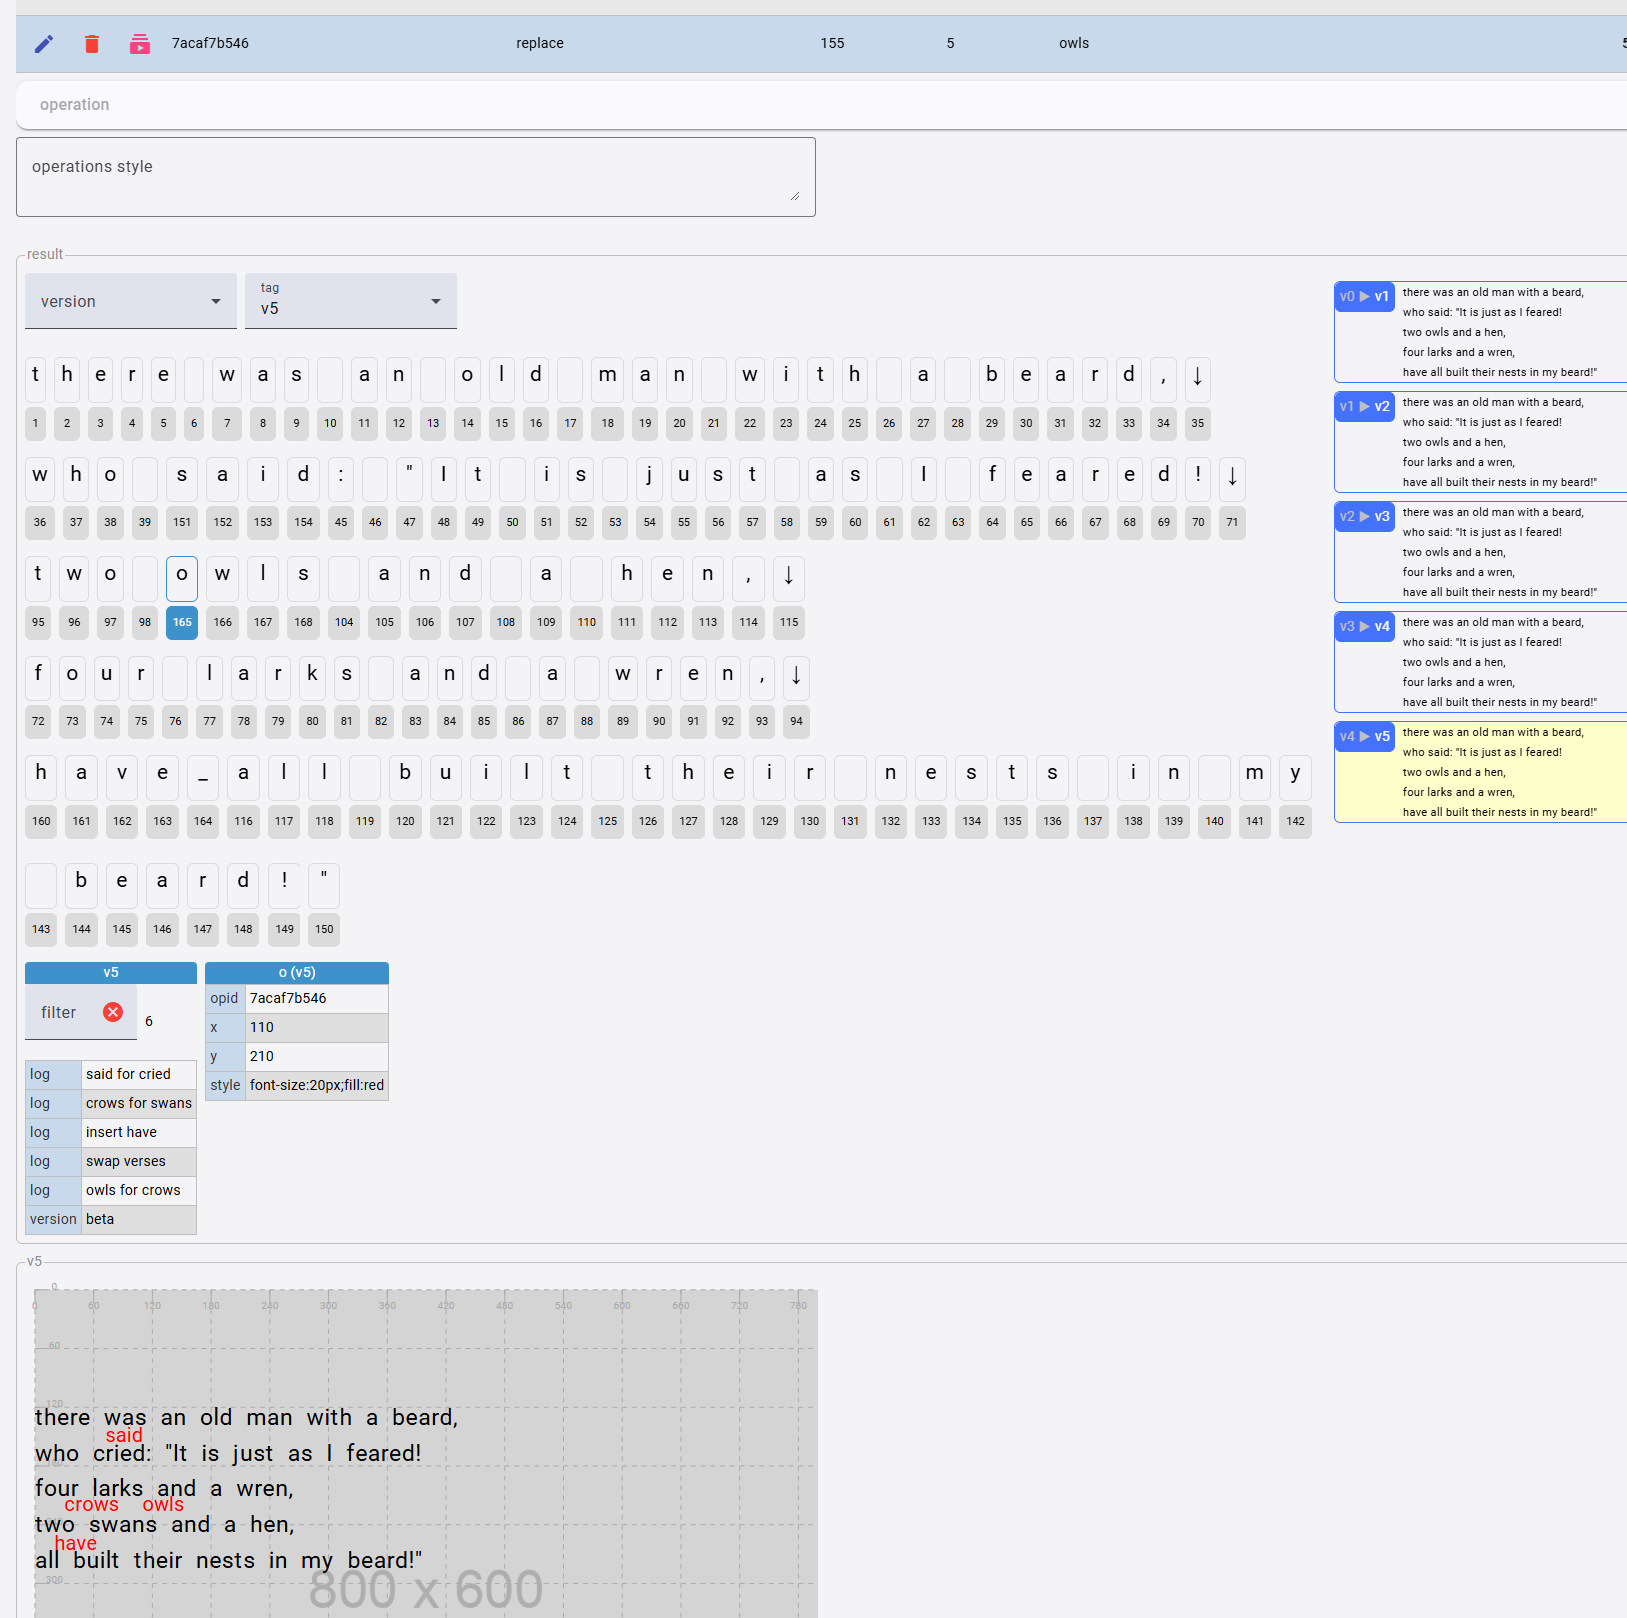
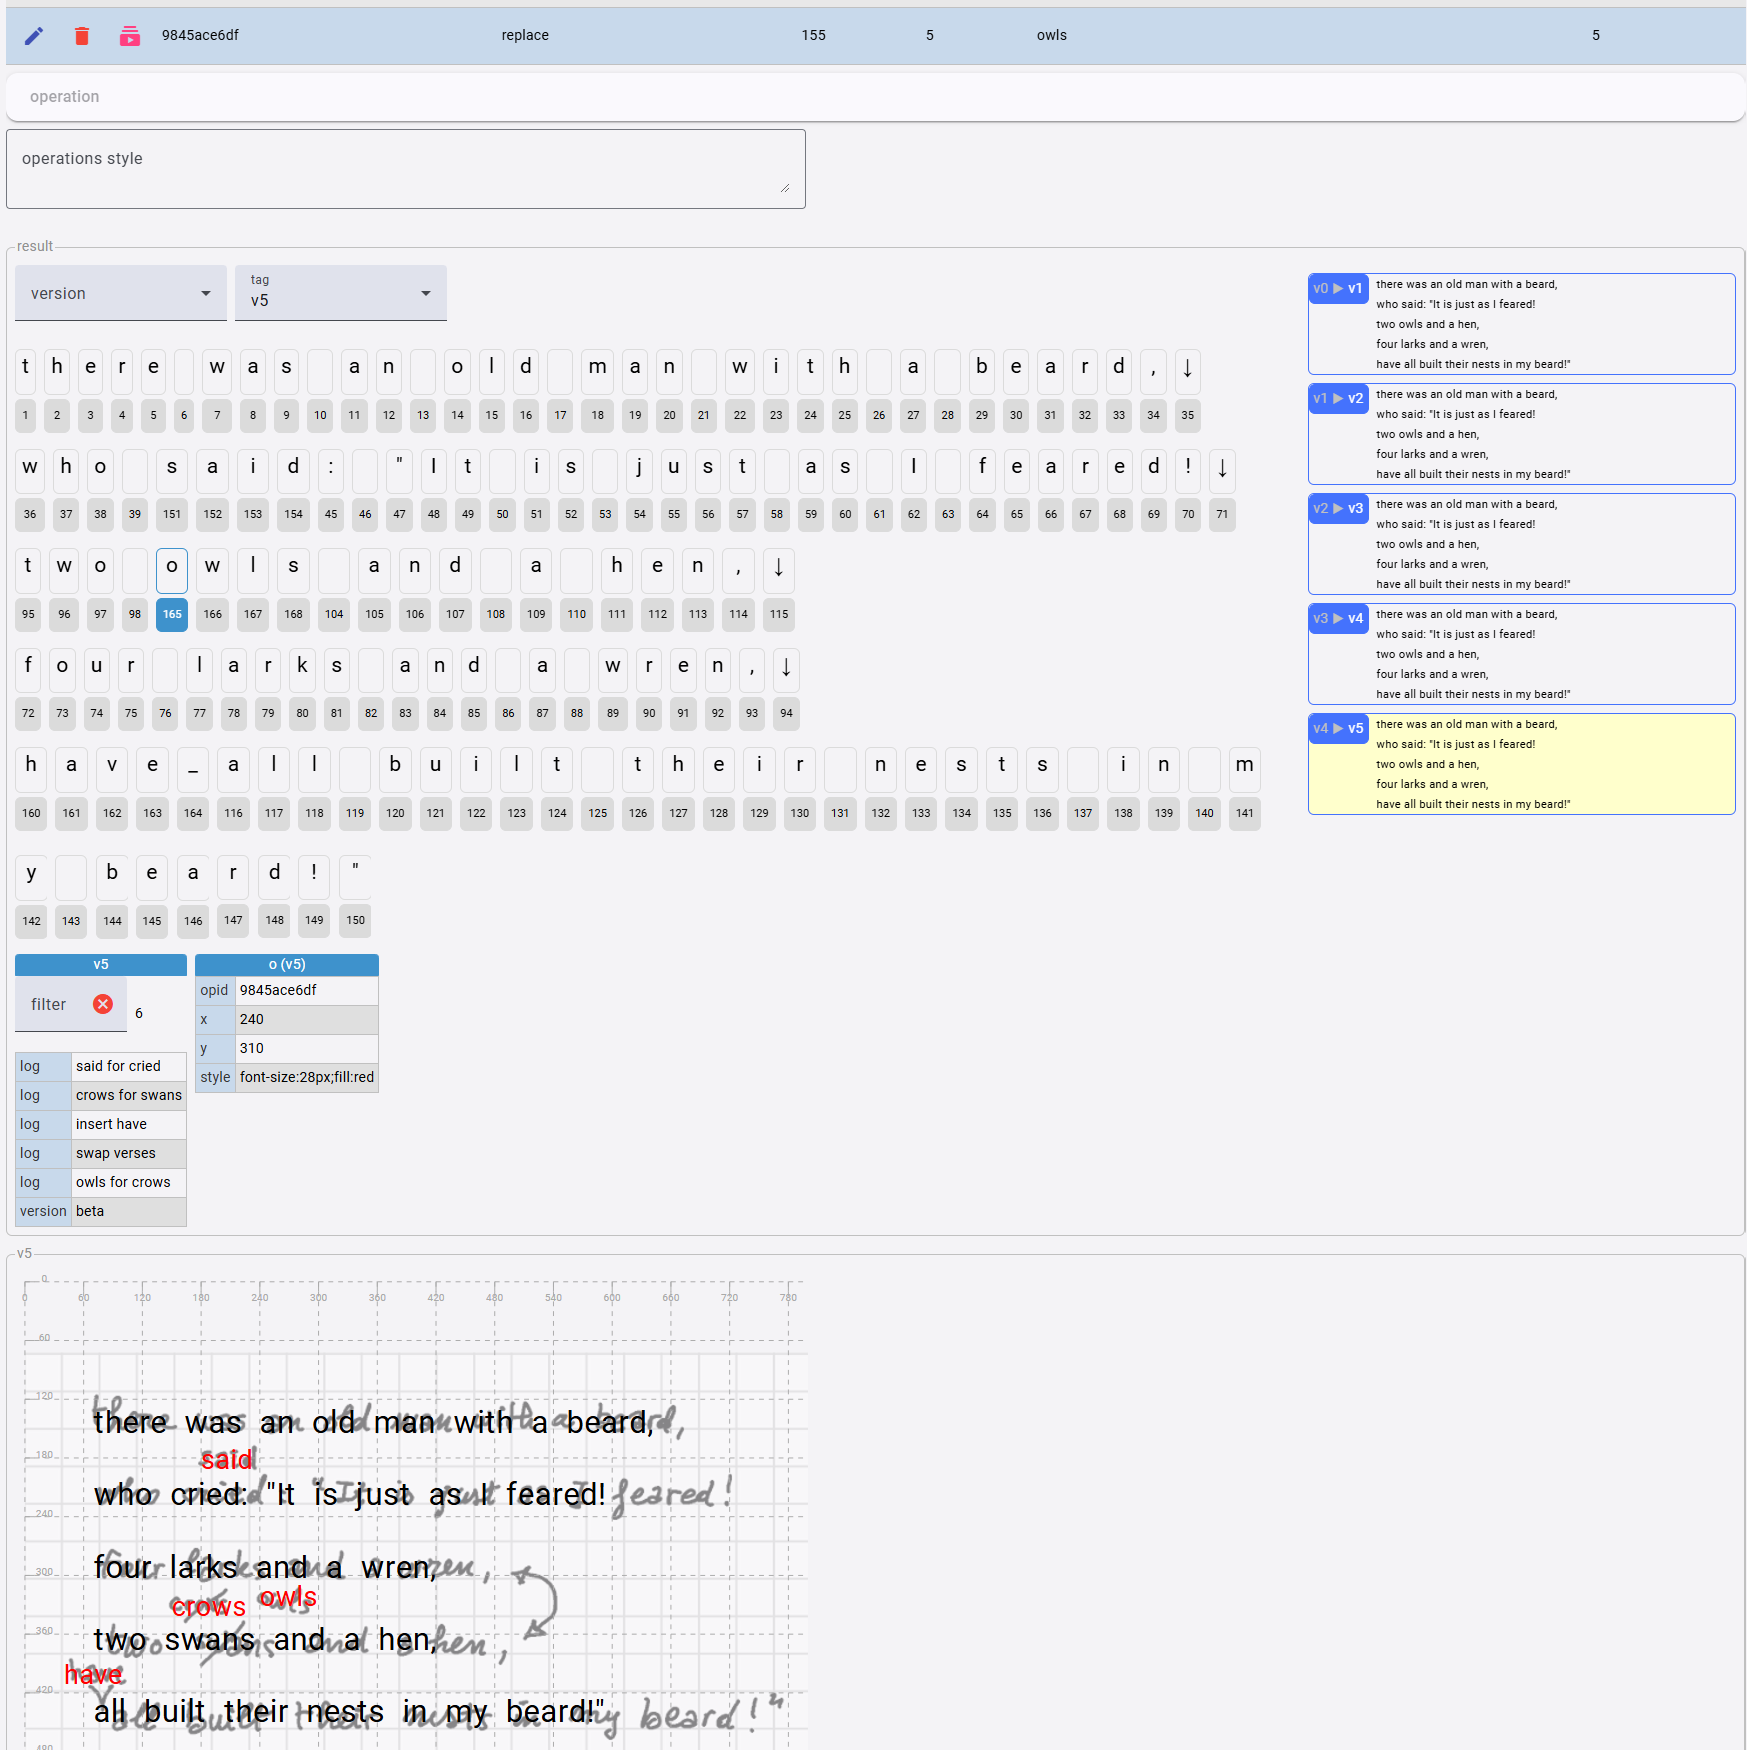
More docs

Changed region(s): [[0.0, 0.0, 1.0, 1.0], [0.1229, 0.1545, 0.1844, 0.1854]]

diff --git a/docs/model/limerick.md b/docs/model/limerick.md
@@ -30,13 +30,18 @@ two swans and a hen,
 all built their nests in my beard!"
 ```
 
->👉 Note that the base text essentially is just a string, so that newlines are represented in it just like any character node, corresponding to a single newline character (LF). In the UI this is visualized as an arrow-down character.
-
 In the GVE UI, we can just paste this text to get the identifiers assigned to each node in the base text. In the screenshot below, I have selected the nodes corresponding to the word "cried", ranging from 40 to 44 (a `40x5` span coordinate, as displayed at the top of the screenshot):
 
 ![base text](img/limerick-base.png)
 
->💡 To select a range, click on the first node, and then Ctrl+click on the last one.
+>💡 To select a range, click on the first node, and then Ctrl+click on the last one. Note that the base text essentially is just a string, so that newlines are represented in it just like any character node, corresponding to a single newline character (LF). In the UI this is visualized as an arrow-down character.
+
+Further, to give an approximate reproduction of the text layout, we add set these base text parameters:
+
+- text style: `font-size: 32px`
+- X offset = 70
+- Y offset = 130
+- ln h-offset=35
 
 ## Adding Operations
 
@@ -69,14 +74,20 @@ Let us formalize this interpretation, representing it with the [DSL syntax](text
 So, here we are describing all changes step after step. Each operation output produces a new version, but only two of them are marked as staged, with names `alpha` and `beta` respectively. In short:
 
 ```txt
-40x5="said" [*log="said for cried" x="72" y="140" style="font-size:20px;fill:red"]
-99x5="crows" [*log="crows for swans" x="30" y="210" style="font-size:20px;fill:red"]
-116+["have " [*log="insert have" *version^="alpha" reason="metrical" x="20" y="250" style="font-size:20px;fill:red"]
+40x5="said" [*log="said for cried" x="180" y="170" style="font-size:28px;fill:red"]
+99x5="crows" [*log="crows for swans" x="150" y="320" style="font-size:28px;fill:red"]
+116+["have " [*log="insert have" *version^="alpha" reason="metrical" x="40" y="390" style="font-size:28px;fill:red"]
 72x23<>95x21  [*log="swap verses"]
-155x5="owls" [*log="owls for crows" *version^="beta" x="110" y="210" style="font-size:20px;fill:red"]
+155x5="owls" [*log="owls for crows" *version^="beta" x="240" y="310" style="font-size:28px;fill:red"]
 ```
 
-The output versions are:
+To view their result we can look at the snapshot view. Here, we also add a background image from some URL (e.g. <http://www.fusisoft.it/xfer/limerick.png>), so that we can see the facsimile behind our snapshot. To this end, we set the background image opacity to about 0.5. The snapshot view shows our result for the output of the last operation in the set (`v5`):
+
+![snapshot view](img/limerick-view1.png)
+
+Note that we have only defined the text here. By simply pasting the base text and its editing operations, we have a visual representation of the snapshot providing a surrogate facsimile. We still lack operation visuals here, like the bars on some words, and the arrows indicating the swap of two verses; we will add them later.
+
+Meanwhile, as for text the output versions generated by these operations are:
 
 - `v1` ("said" replaced "cried"):
 
@@ -127,6 +138,8 @@ two owls and a hen,
 four larks and a wren,
 have all built their nests in my beard!"
 ```
+
+Of course, this sequence of versions descends from our interpretation of the snapshot, as formalized by the edit operations we defined.
 
 This is the minimal data we need to represent our text versions. We can then go on, and add visuals and even timelines; anyway, until now all the snapshot data could be entered via text: a base text and 5 lines representing a batch of edits is all what is required to feed the chain engine and let it generate all the versions, each with its own metadata attached to either specific text nodes, or to the version as a whole.
 
